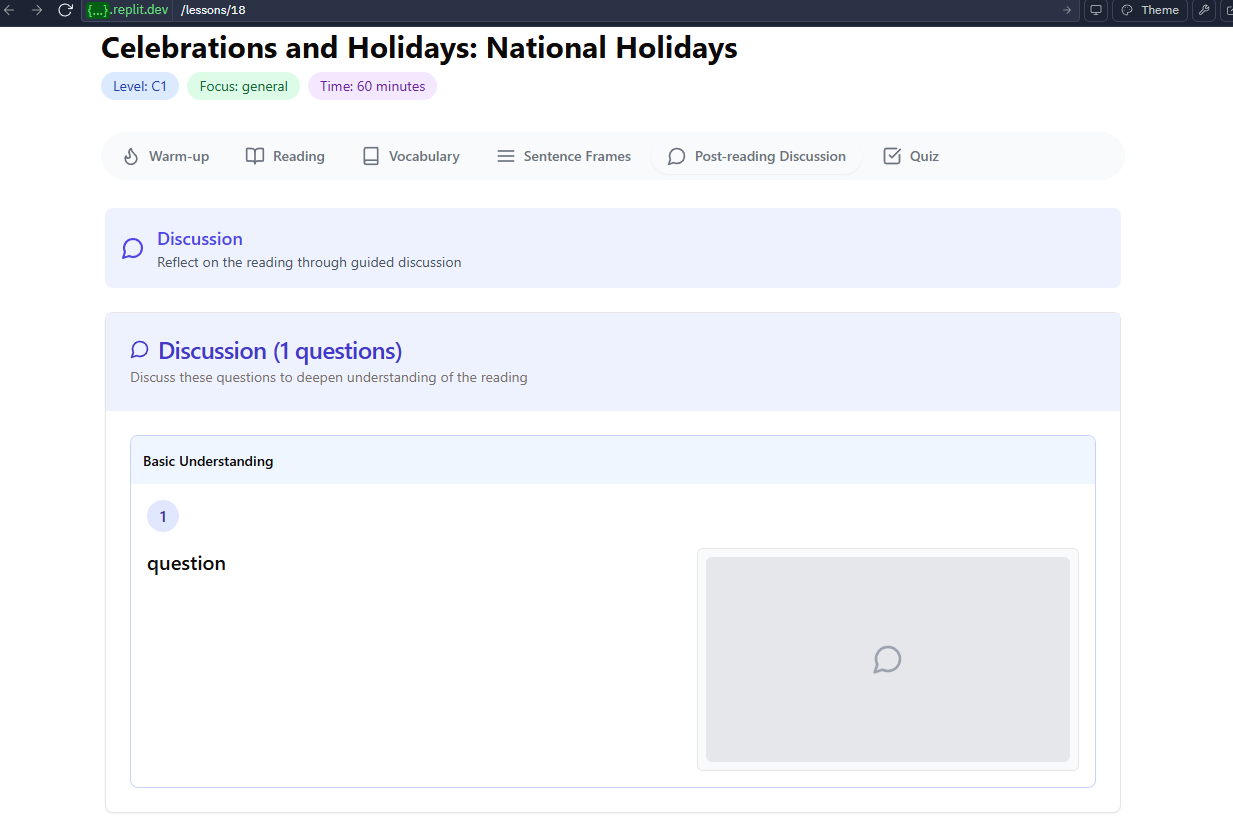
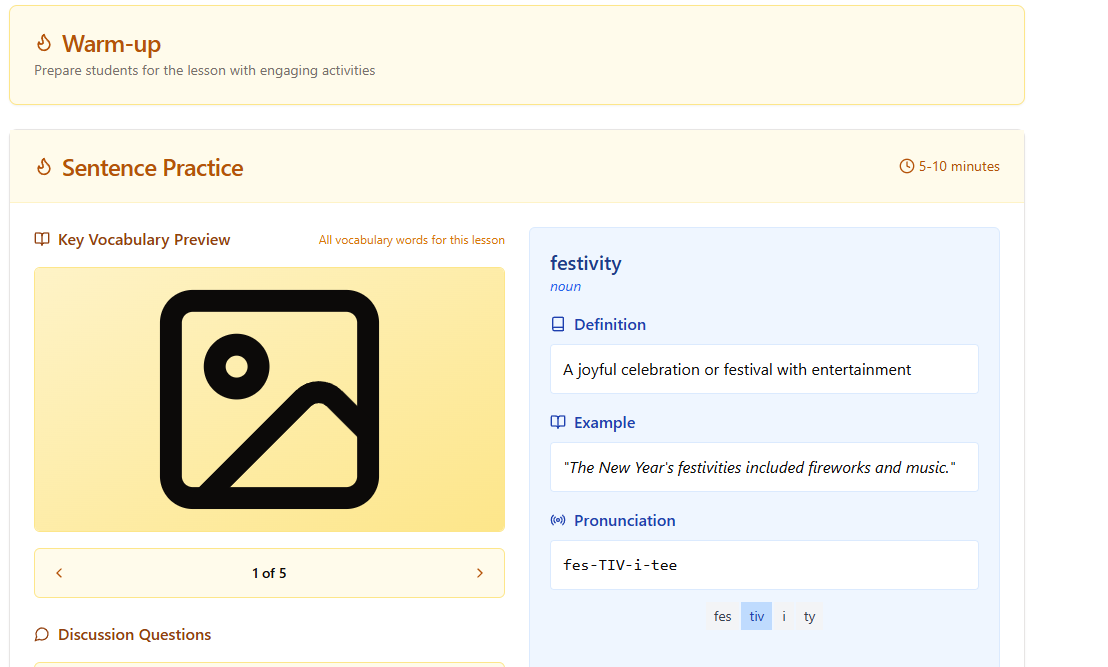
Improve vocabulary card display in warm-up section.
Replit-Commit-Author: Agent
Replit-Commit-Session-Id: 0468f517-0728-404d-a114-59aed6520521
Replit-Commit-Screenshot-Url: https://storage.googleapis.com/screenshot-production-us-central1/d1e85f02-ff87-47e7-8d2f-c222e56fe344/2145347e-ccca-440e-85a9-b7bfb140ea61.jpg

diff --git a/client/src/components/lesson/warm-up/vocabulary-card.tsx b/client/src/components/lesson/warm-up/vocabulary-card.tsx
@@ -16,86 +16,142 @@ interface VocabularyCardProps {
 export function VocabularyCard({ word }: VocabularyCardProps) {
   return (
     <div className="bg-blue-50 rounded-md p-5 border border-blue-100">
-      <div className="mb-4">
+      <div className="mb-2">
         <h2 className="text-xl font-medium text-blue-900">{word.word}</h2>
-        <p className="text-blue-600 text-sm italic">{word.partOfSpeech || 'noun'}</p>
+        <p className="text-blue-600 text-sm">{word.partOfSpeech || 'noun'}</p>
       </div>
       
       {/* Definition */}
-      <div className="mb-4">
-        <h3 className="text-blue-800 font-medium flex items-center mb-2">
+      <div className="mb-3">
+        <h3 className="text-blue-800 font-medium flex items-center mb-1 text-sm">
           <Book className="mr-2 h-4 w-4" />
           Definition
         </h3>
-        <p className="p-3 bg-white rounded border border-blue-100">
+        <p className="p-2 bg-white rounded border border-blue-100">
           {word.definition || `A definition for ${word.word}`}
         </p>
       </div>
       
       {/* Example */}
-      <div className="mb-4">
-        <h3 className="text-blue-800 font-medium flex items-center mb-2">
+      <div className="mb-3">
+        <h3 className="text-blue-800 font-medium flex items-center mb-1 text-sm">
           <BookOpen className="mr-2 h-4 w-4" />
           Example
         </h3>
-        <p className="p-3 bg-white rounded border border-blue-100 italic">
+        <p className="p-2 bg-white rounded border border-blue-100 italic">
           "{word.example || `This is an example sentence using the word ${word.word}.`}"
         </p>
       </div>
       
       {/* Pronunciation */}
       <div>
-        <h3 className="text-blue-800 font-medium flex items-center mb-2">
+        <h3 className="text-blue-800 font-medium flex items-center mb-1 text-sm">
           <Radio className="mr-2 h-4 w-4" />
           Pronunciation
         </h3>
-        <p className="p-3 bg-white rounded border border-blue-100 font-mono">
+        <p className="p-2 bg-white rounded border border-blue-100 font-mono">
           {word.pronunciation || `Pronunciation for ${word.word}`}
         </p>
         
         {/* Syllable breakdown */}
         {word.word && (
-          <div className="flex justify-center mt-3 gap-0.5">
+          <div className="flex justify-center mt-2 gap-0.5">
             {(() => {
-              // Split the word into syllables based on the pronunciation
+              // Parse pronunciation to determine syllables and emphasis
               let syllables: string[] = [];
+              let emphasisIndex = -1;
               
-              if (word.word === 'celebration' && word.pronunciation === 'sel-uh-BRAY-shuhn') {
-                syllables = ['cel', 'e', 'bra', 'tion'];
-              } else if (word.word === 'parade' && word.pronunciation === 'puh-RAYD') {
-                syllables = ['pa', 'rade'];
-              } else if (word.word === 'festivity' && word.pronunciation === 'fes-TIV-i-tee') {
-                syllables = ['fes', 'tiv', 'i', 'ty'];
-              } else if (word.word === 'commemorate' && word.pronunciation === 'kuh-MEM-uh-rayt') {
-                syllables = ['com', 'mem', 'o', 'rate'];
-              } else if (word.word === 'patriotic' && word.pronunciation === 'pay-tree-OT-ik') {
-                syllables = ['pa', 'tri', 'ot', 'ic'];
-              } else if (word.word === 'ritual' && word.pronunciation === 'RICH-oo-uhl') {
-                syllables = ['ri', 'tu', 'al'];
-              } else if (word.word === 'heritage' && word.pronunciation === 'HAIR-i-tij') {
-                syllables = ['her', 'i', 'tage'];
-              } else {
-                // Default syllable splitting logic if not a predefined word
-                let remaining = word.word;
-                while (remaining.length > 0) {
-                  const syllableLength = Math.min(3, remaining.length);
-                  syllables.push(remaining.substring(0, syllableLength));
-                  remaining = remaining.substring(syllableLength);
+              // Handle common patterns in pronunciation strings
+              const pronString = word.pronunciation || '';
+              
+              if (pronString) {
+                // Method 1: Check for specific word cases we know about
+                if (word.word === 'celebration' && pronString.includes('BRAY')) {
+                  syllables = ['cel', 'e', 'bra', 'tion'];
+                  emphasisIndex = 2; // "bra" syllable is emphasized 
+                } else if (word.word === 'parade' && pronString.includes('RAYD')) {
+                  syllables = ['pa', 'rade'];
+                  emphasisIndex = 1; // "rade" syllable is emphasized
+                } else if (word.word === 'festivity' && pronString.includes('TIV')) {
+                  syllables = ['fes', 'tiv', 'i', 'ty'];
+                  emphasisIndex = 1; // "tiv" syllable is emphasized
+                } else if (word.word === 'commemorate' && pronString.includes('MEM')) {
+                  syllables = ['com', 'mem', 'o', 'rate'];
+                  emphasisIndex = 1; // "mem" syllable is emphasized
+                } else if (word.word === 'patriotic' && pronString.includes('OT')) {
+                  syllables = ['pa', 'tri', 'ot', 'ic'];
+                  emphasisIndex = 2; // "ot" syllable is emphasized
+                } else if (word.word === 'ritual' && pronString.includes('RICH')) {
+                  syllables = ['ri', 'tu', 'al'];
+                  emphasisIndex = 0; // "ri" syllable is emphasized
+                } else if (word.word === 'heritage' && pronString.includes('HAIR')) {
+                  syllables = ['her', 'i', 'tage'];
+                  emphasisIndex = 0; // "her" syllable is emphasized
+                } 
+                // Method 2: Split by dash or hyphen if it exists in the pronunciation
+                else if (pronString.includes('-')) {
+                  const parts = pronString.split('-');
+                  // Find the emphasized part (usually in ALL CAPS)
+                  emphasisIndex = parts.findIndex(part => 
+                    part === part.toUpperCase() && part.length > 1);
+                  
+                  // Derive syllables from the word itself based on length patterns
+                  let remaining = word.word;
+                  const avgLength = Math.ceil(remaining.length / parts.length);
+                  
+                  while (remaining.length > 0) {
+                    const syllableLength = Math.min(avgLength, remaining.length);
+                    syllables.push(remaining.substring(0, syllableLength));
+                    remaining = remaining.substring(syllableLength);
+                  }
+                }
+                // Method 3: Look for capitalized sections in the pronunciation as emphasis
+                else if (/[A-Z]{2,}/.test(pronString)) {
+                  // Split the word into approximately equal parts
+                  const match = pronString.match(/[A-Z]{2,}/);
+                  if (match) {
+                    const emphasisPosition = pronString.indexOf(match[0]) / pronString.length;
+                    // Split word into reasonable syllables
+                    const wordLength = word.word.length;
+                    const syllableCount = Math.ceil(wordLength / 3);
+                    const syllableSize = Math.ceil(wordLength / syllableCount);
+                    
+                    for (let i = 0; i < wordLength; i += syllableSize) {
+                      syllables.push(word.word.substring(i, Math.min(i + syllableSize, wordLength)));
+                    }
+                    
+                    // Approximate which syllable has emphasis
+                    emphasisIndex = Math.floor(emphasisPosition * syllables.length);
+                  }
                 }
               }
+                
+              // Default syllable splitting if no special cases matched
+              if (syllables.length === 0) {
+                // Simple syllable splitting based on word length
+                if (word.word.length <= 4) {
+                  syllables = [word.word];
+                } else if (word.word.length <= 6) {
+                  syllables = [word.word.substring(0, 2), word.word.substring(2)];
+                } else {
+                  // For longer words, try to make meaningful chunks
+                  let remaining = word.word;
+                  while (remaining.length > 0) {
+                    const syllableLength = Math.min(3, remaining.length);
+                    syllables.push(remaining.substring(0, syllableLength));
+                    remaining = remaining.substring(syllableLength);
+                  }
+                }
+                // Default emphasis on second syllable if we have multiple
+                emphasisIndex = syllables.length > 1 ? 1 : 0;
+              }
               
-              // Find the emphasized syllable from the pronunciation (usually in ALL CAPS)
-              const pronParts = word.pronunciation ? 
-                word.pronunciation.split('-') : [];
-              const emphasizedIndex = pronParts.findIndex(part => 
-                part === part.toUpperCase() && part.length > 1);
-              
+              // Render the syllables with one emphasized
               return syllables.map((syllable, idx) => (
                 <span 
                   key={idx} 
                   className={`px-2 py-1 text-sm ${
-                    (emphasizedIndex !== -1 && idx === emphasizedIndex) || 
-                    (emphasizedIndex === -1 && idx % 2 === 1) 
+                    idx === emphasisIndex
                       ? 'bg-blue-200 text-blue-800' 
                       : 'bg-gray-100 text-gray-700'
                   }`}
